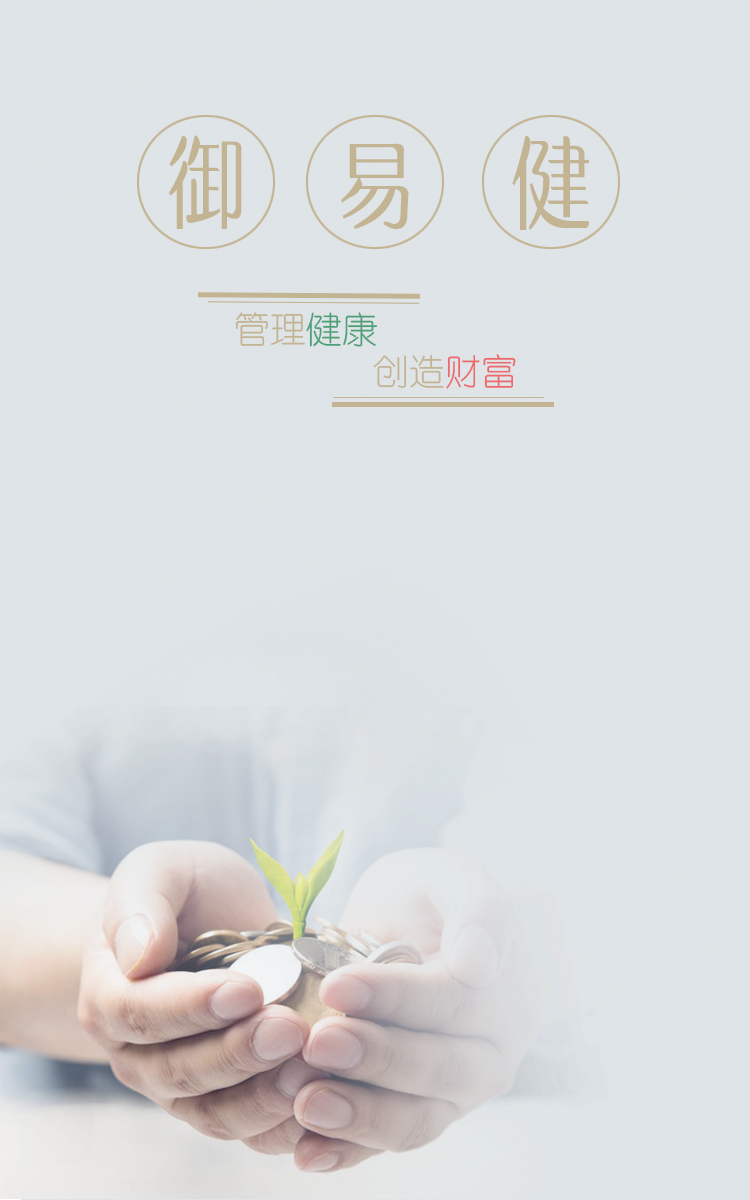
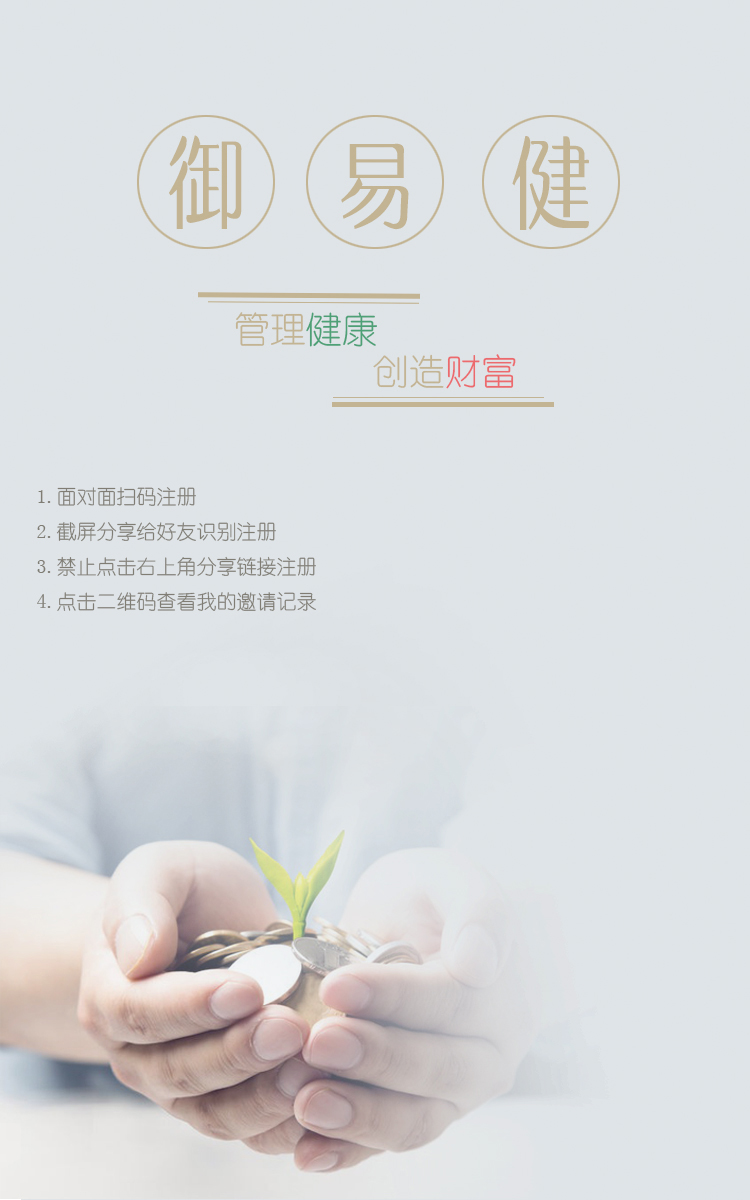
邀请码页面样式

Changed region(s): [[0.0613, 0.4008, 0.4293, 0.5242]]

diff --git a/app/assets/stylesheets/user/info.scss b/app/assets/stylesheets/user/info.scss
@@ -111,11 +111,14 @@ a{
 
 .qr-code-invitation {
   // text-align: center;
-  float: right;
-  margin-top: 60%;
-  margin-right: 12%;
+  // float: right;
+  // margin-top: 45%;
+  // margin-right: 12%;
+  position: absolute;
+  bottom: 9rem;
+  right: 1rem;
   table {
-    padding-top: 20px;
+    padding-top: 10px;
     display: inline-block;
     border-width: 0;
     border-style: none;
